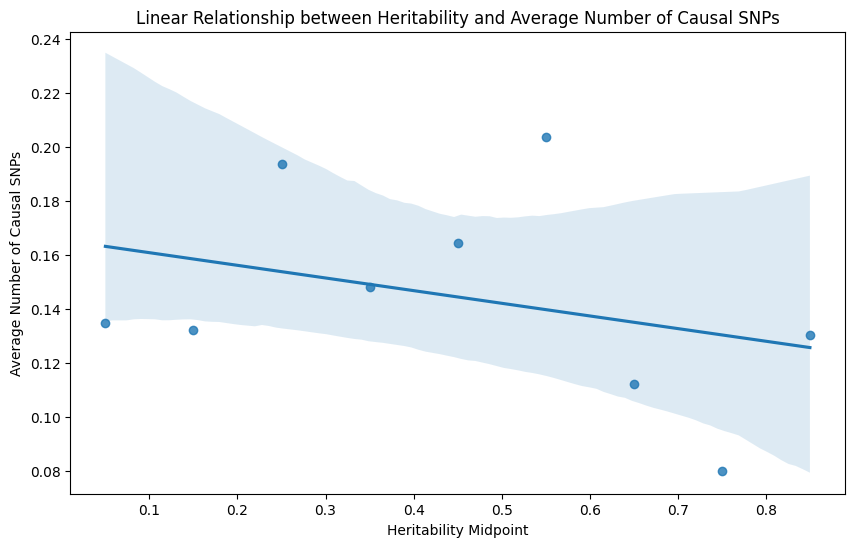
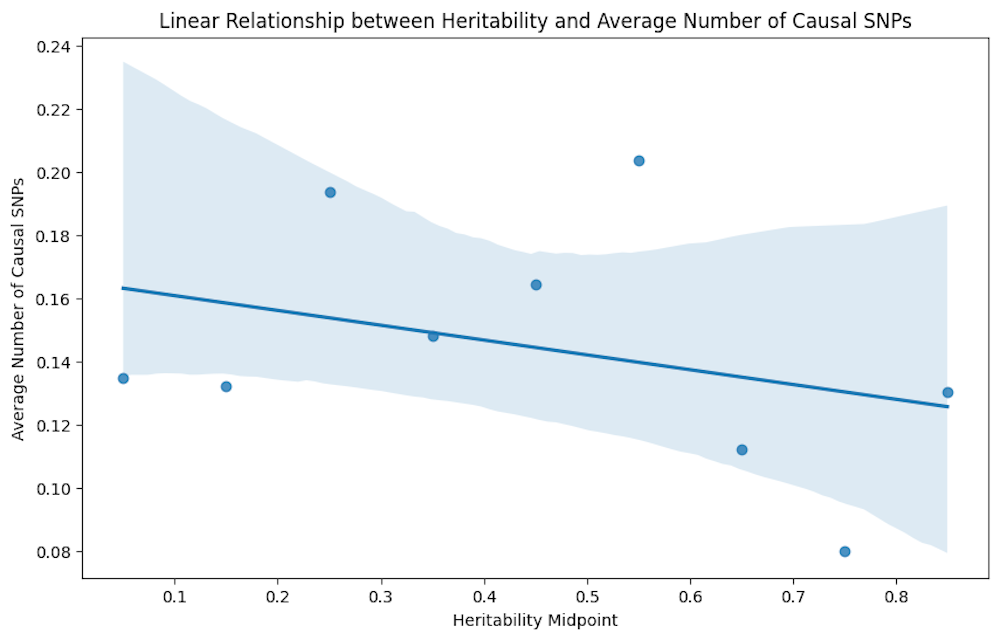
test

diff --git a/_includes/findings.html b/_includes/findings.html
@@ -22,7 +22,7 @@
                                     </div>
 
                                     <div>
-                                        <img src="img/findings/linear.png" alt="missing" style="max-width: 500px; height: auto; width:auto\9;">
+                                        <img src="img/findings/linear.png" alt="missing" style="max-width: 50%; height: auto; width:auto\9;">
                                     </div>
                                 </div>
                             </div>
